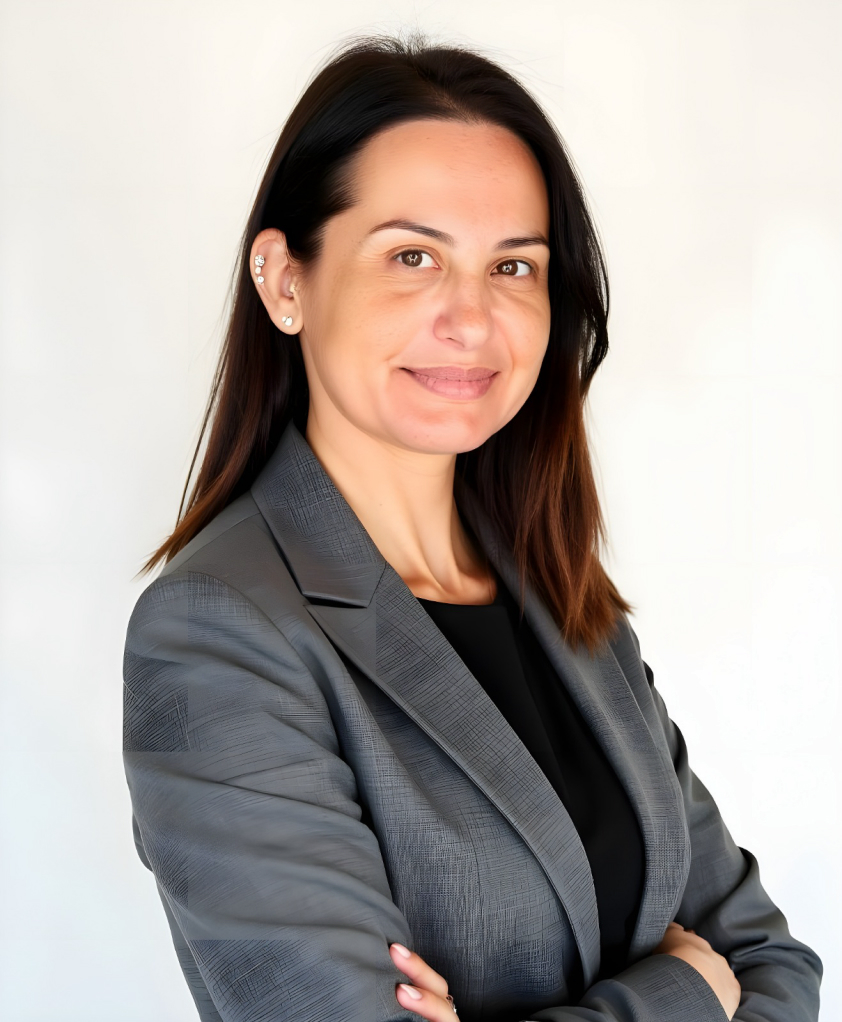
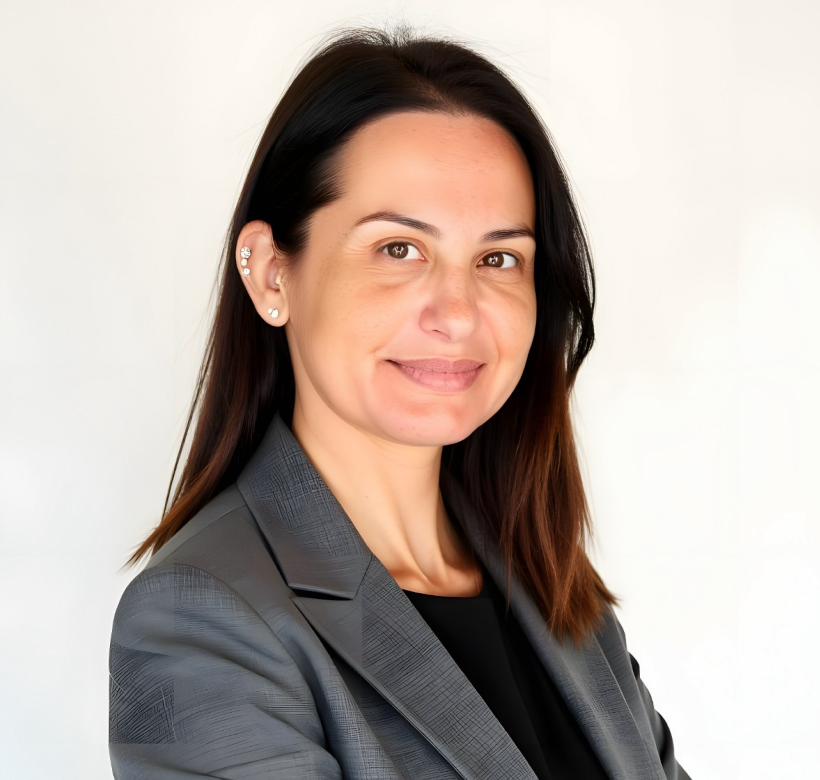
fix(leadership): re-export all images, switch to fill+object-cover for all leaders
Eliminates stretching entirely — no more absolute-positioned fixed px dimensions.
All four images now use fill + object-cover (maintains AR, always fills container,
scales proportionally at every viewport width).

Images re-exported from Figma rectangle nodes at 2x (source matches Figma rect AR):
  Vincent  417×468  Sandra frame 410×390 (pre-cropped, AR matches container)
  Husnain  555×740  Marc        425×455

object-position crop values derived from Figma dy/(sh-fh)×100 formula:
  Vincent  50% 20%  (desktop ≈ mobile, single value)
  Husnain  50% 77% mobile → 50% 85% desktop (responsive via globals.css)
  Marc     50% 45%  (desktop ≈ mobile, single value)
  Sandra   center   (frame export, container AR matches, no crop needed)

diff --git a/components/sections/LeadershipSection.tsx b/components/sections/LeadershipSection.tsx
@@ -5,71 +5,62 @@ interface Leader {
   role: string;
   image: string;
   bio?: string;
-  placedImage: boolean;
-  imageClassName: string;
-  placedW?: number;
-  placedH?: number;
+  /**
+   * Tailwind class(es) controlling object-position on the fill image.
+   * All images use fill + object-cover; this class controls which part
+   * of the image is visible inside the fixed-height container.
+   * Values derived from Figma rect offsets:  y% = dy / (sh - fh) × 100
+   *   Vincent  dy=14  sh=460 fh=390 → 20%
+   *   Husnain  dy=134 sh=547 fh=390 → 85% (desktop); dy=110 sh=482 fh=340 → 77% (mobile) — see globals.css
+   *   Marc     dy=22  sh=439 fh=390 → 45%
+   *   Sandra   frame export (AR matches container) → center
+   */
+  cropClass: string;
 }
 
 const leaders: Leader[] = [
   {
     name: "Vincent de Cannière",
     role: "Chairman",
-    image: "/images/home/leader-vincent.png",
+    image: "/images/home/leader-vincent.jpg",
     bio: "Vincent brings over 40 years of experience across executive leadership, governance, private banking, acquisitions, and restructuring. Having served as CEO and board member for major financial and real estate institutions across Europe and the Middle East, he provides MSS with seasoned strategic direction and institutional oversight.",
-    placedImage: false,
-    imageClassName: "object-cover object-top",
+    cropClass: "[object-position:50%_20%]",
   },
   {
     name: "Husnain Nasir",
     role: "Director",
-    image: "/images/home/leader-husnain.png",
+    image: "/images/home/leader-husnain.jpg",
     bio: "Husnain brings over 25 years of experience across fintech, enterprise solutions, branchless banking, and telecom. With executive leadership roles tied to major digital finance and transformation initiatives in Pakistan, UAE, UK and Europe, he contributes deep expertise in strategy and investments.",
-    placedImage: true,
-    imageClassName: "absolute max-w-none left-[-2px] top-[-110px] h-[659px] w-[495px] lg:left-[-1px] lg:top-[-134px] lg:w-[556px] lg:h-[659px]",
-    placedW: 960,
-    placedH: 1280,
+    // Responsive crop defined in globals.css: 77% mobile → 85% desktop
+    cropClass: "leader-husnain-crop",
   },
   {
     name: "Marc Lanz",
     role: "Head of Operations",
     image: "/images/home/leader-marc.jpg",
-    placedImage: false,
-    imageClassName: "object-cover object-top",
+    cropClass: "[object-position:50%_45%]",
   },
   {
     name: "Sandra Schaad",
     role: "Head of Compliance",
     image: "/images/home/leader-sandra.jpg",
-    // fill + object-cover guarantees full container coverage.
-    // object-top anchors to the top edge, matching the Figma crop (top overflow is only 4px).
-    placedImage: false,
-    imageClassName: "object-cover object-top",
+    // Frame export (820×780) matches container AR exactly — any position fills.
+    cropClass: "object-center",
   },
 ];
 
 function LeaderCard({ leader }: { leader: Leader }) {
   return (
     <>
+      {/* Photo frame — fill + object-cover: maintains AR, always fills container */}
       <div className="relative bg-[#0B1738] overflow-hidden h-[340px] lg:h-[390px]">
-        {leader.placedImage ? (
-          <Image
-            src={leader.image}
-            alt={leader.name}
-            width={leader.placedW ?? 960}
-            height={leader.placedH ?? 1280}
-            className={leader.imageClassName}
-            sizes="(max-width: 768px) calc(100vw - 40px), (max-width: 1024px) calc(50vw - 60px), 410px"
-          />
-        ) : (
-          <Image
-            src={leader.image}
-            alt={leader.name}
-            fill
-            className={leader.imageClassName}
-            sizes="(max-width: 768px) calc(100vw - 40px), (max-width: 1024px) calc(50vw - 60px), 410px"
-          />
-        )}
+        <Image
+          fill
+          src={leader.image}
+          alt={leader.name}
+          className={`object-cover ${leader.cropClass}`}
+          sizes="(max-width: 768px) calc(100vw - 40px), (max-width: 1024px) calc(50vw - 60px), 410px"
+        />
       </div>
 
       <h3
@@ -115,10 +106,10 @@ export default function LeadershipSection() {
         {/*
          * ── Desktop (≥ 1024px): two fixed-width flex rows ──
          *
-         * Row 1 (Vincent + Husnain): left-aligned, flex-none 410px each.
-         *   Cards stay at left margin — empty right space absorbs viewport shrinkage.
+         * Row 1 (Vincent + Husnain): left-aligned, flex-none 410px.
+         *   Cards stay at left margin — empty right column absorbs viewport shrinkage.
          *
-         * Row 2 (Marc + Sandra): right-aligned via justify-end, flex-none 410px each.
+         * Row 2 (Marc + Sandra): right-aligned via justify-end, flex-none 410px.
          *   As viewport narrows the pair scoots left, right edge stays within margin.
          */}
         <div className="hidden lg:flex lg:flex-col">

diff --git a/app/globals.css b/app/globals.css
@@ -2561,6 +2561,9 @@ body {
 .leadership-section-h2 { font-size: 2.875rem;  line-height: 1.087; }
 .portfolio-process-h2  { font-size: 2.875rem;  line-height: 1.087; }
 .leadership-person-h3  { font-size: 26px;      line-height: 32px;  }
+/* Husnain crop: mobile shows y=77%, desktop shows y=85% (Figma-derived) */
+.leader-husnain-crop { object-position: 50% 77%; }
+@media (min-width: 1024px) { .leader-husnain-crop { object-position: 50% 85%; } }
 .footprint-section-h2  { font-size: 2.25rem;   line-height: 1.2;   }
 .news-article-hero-title { font-size: 2.875rem; line-height: 1.087; }
 .news-press-kit-h2     { font-size: 2.25rem;   line-height: 1.167; }
